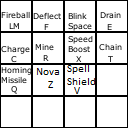
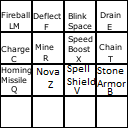
StoneArmour Done

Changed region(s): [[0.75, 0.625, 1.0, 0.75], [0.75, 0.5, 0.9688, 0.5938]]

diff --git a/MagicGladiators/MagicGladiators/Components/Composites/Abilities/Defensive/StoneArmour.cs b/MagicGladiators/MagicGladiators/Components/Composites/Abilities/Defensive/StoneArmour.cs
@@ -1,0 +1,75 @@
+using System;
+using System.Collections.Generic;
+using System.Linq;
+using System.Text;
+using System.Threading.Tasks;
+using Microsoft.Xna.Framework.Content;
+using Microsoft.Xna.Framework.Input;
+using Microsoft.Xna.Framework;
+
+namespace MagicGladiators
+{
+    class StoneArmour : DefensiveAbility, IUpdateable, ILoadable
+    {
+
+        private bool canShoot = true;
+        private float activated;
+        private float activatedTimer = 4f;
+        private float slowSpeed = 0.5f;
+        private float resist = 0.5f;
+        private bool activatedAbility;
+        private float cooldown = 6f;
+        private bool cooldownbool = false;
+        private float cooldownTimer;
+
+
+        public StoneArmour(GameObject go) : base(go)
+        {
+            
+        }
+
+        public override void LoadContent(ContentManager content)
+        {
+           
+        }
+
+        public override void Update()
+        {
+            KeyboardState keyState = Keyboard.GetState();
+           
+
+            if (keyState.IsKeyDown(Keys.B) && canShoot)
+            {
+                activatedAbility = true;
+                canShoot = false;
+                gameObject.Speed -= slowSpeed;
+                gameObject.KnockBackResistance -= resist;
+                (gameObject.GetComponent("SpriteRenderer") as SpriteRenderer).Color = Color.DarkSlateGray;
+               
+            }
+            if(activatedAbility)
+            {
+                activated += GameWorld.Instance.deltaTime;
+            }
+
+            if(activated >= activatedTimer)
+            {
+                gameObject.Speed +=  slowSpeed;
+                gameObject.KnockBackResistance += resist;
+                cooldownbool = true;
+                activatedAbility = false;
+                activated = 0;
+                (gameObject.GetComponent("SpriteRenderer") as SpriteRenderer).Color = Color.White;
+            }
+            if (cooldownbool)
+            {
+                cooldownTimer += GameWorld.Instance.deltaTime;
+            }
+            if(cooldownTimer >= cooldown)
+            {
+                canShoot = true;
+                cooldownTimer = 0;
+            }
+        }
+    }
+}

diff --git a/MagicGladiators/MagicGladiators/Builder/PlayerBuilder.cs b/MagicGladiators/MagicGladiators/Builder/PlayerBuilder.cs
@@ -33,6 +33,8 @@ namespace MagicGladiators
 
             gameObject.AddComponent(new ShrinkMap(gameObject));
 
+            //gameObject.AddComponent(new StoneArmour(gameObject));
+
             //gameObject.AddComponent(new Spellshield(gameObject));
 
             //gameObject.AddComponent(new Chain(gameObject));
@@ -49,6 +51,8 @@ namespace MagicGladiators
 
             //gameObject.LoadContent(GameWorld.Instance.Content);
 
+            
+
             MouseState mouse = Mouse.GetState();
             gameObject.transform.position = position;
 
@@ -60,6 +64,8 @@ namespace MagicGladiators
             gameObject.transform.position = position;
 
             //gameObject.AddComponent(new Mine(gameObject, gameObject.transform.position));
+
+
 
 
         }

diff --git a/MagicGladiators/MagicGladiators/AbilityIcon.cs b/MagicGladiators/MagicGladiators/AbilityIcon.cs
@@ -40,6 +40,7 @@ namespace MagicGladiators
             animator.CreateAnimation("Chain", new Animation(1, 32, 3, 32, 32, 10, Vector2.Zero, sprite));
             animator.CreateAnimation("Nova", new Animation(1, 64, 1, 32, 32, 10, Vector2.Zero, sprite));
             animator.CreateAnimation("Spellshield", new Animation(1, 64, 2, 32, 32, 10, Vector2.Zero, sprite));
+            animator.CreateAnimation("StoneArmour", new Animation(1, 64, 3, 32, 32, 10, Vector2.Zero, sprite));
 
 
             animator.PlayAnimation(Name);

diff --git a/MagicGladiators/MagicGladiators/GameWorld.cs b/MagicGladiators/MagicGladiators/GameWorld.cs
@@ -162,6 +162,8 @@ namespace MagicGladiators
             abilityList.Add(director.ConstructIcon(new Vector2(buySpellX, buySpellY), "Nova", 100));
             buySpellPosition();
             abilityList.Add(director.ConstructIcon(new Vector2(buySpellX, buySpellY), "Spellshield", 100));
+            buySpellPosition();
+            abilityList.Add(director.ConstructIcon(new Vector2(buySpellX, buySpellY), "StoneArmour", 100));
 
             base.Initialize();
         }

diff --git a/MagicGladiators/MagicGladiators/CreateAbility.cs b/MagicGladiators/MagicGladiators/CreateAbility.cs
@@ -59,6 +59,10 @@ namespace MagicGladiators
             {
                 component = new Spellshield(gameObject);
             }
+            if(name == "StoneArmour")
+            {
+                component = new StoneArmour(gameObject);
+            }
             return component;
         }
 
